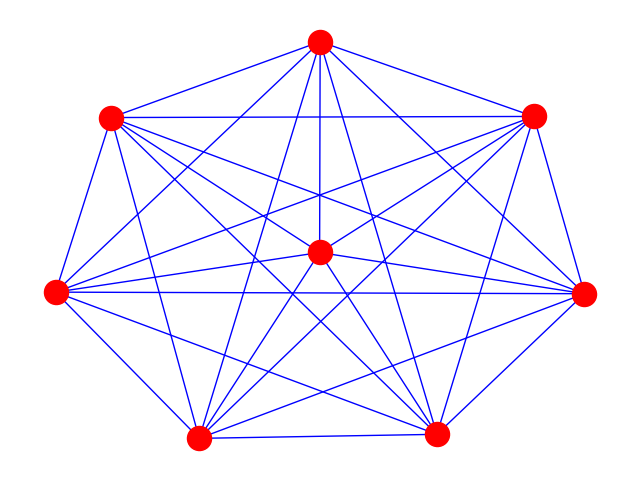
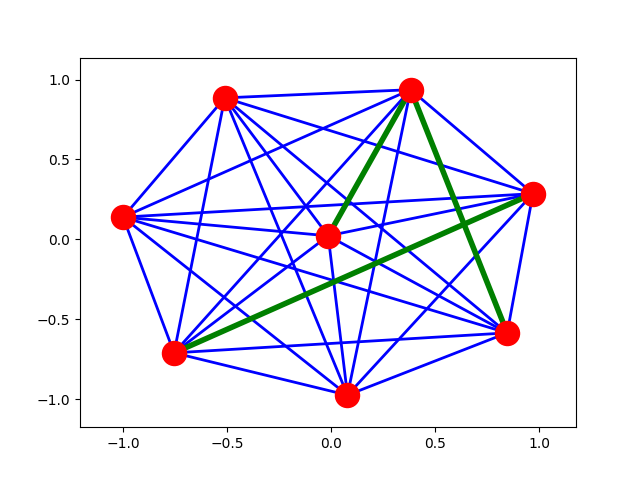
Add files via upload

diff --git a/graph.py b/graph.py
@@ -16,26 +16,29 @@ G=nx.Graph()
 G.add_nodes_from(['a','b','c','d','e','f','g','h'])
 
 
-G.add_edges_from([("a","b"),("a","c"),("a","d"),("a","f"),("a","g"),("a","h")],color='b')
+G.add_edges_from([('a','b'),('a','c'),('a','d'),('a','f'),('a','g'),('a','h')])
 
-G.add_edges_from([("b","c"),("b","d"),("b","e"),("b","f"),("b","g"),("b","h")],color='b')
+G.add_edges_from([('b','c'),('b','d'),('b','e'),('b','f'),('b','g'),('b','h')])
 
-G.add_edges_from([("c","d"),("c","e"),("c","g")],color='b')
+G.add_edges_from([('c','d'),('c','e'),('c','g')])
 
-G.add_edges_from([("d","e"),("d","f"),("d","g"),("d","h")],color='b')
+G.add_edges_from([('d','e'),('d','f'),('d','g'),('d','h')])
 
-G.add_edges_from([("e","f"),("e","g"),("e","h")],color='b')
+G.add_edges_from([('e','f'),('e','g'),('e','h')])
 
-G.add_edges_from([("f","g"),("f","h"),("g","h")],color='b')
+G.add_edges_from([('f','g'),('f','h'),('g','h')])
 
-G.add_edge("a","e",color='g')
+G.add_edge('a','e')
 
-G.add_edge("c","f",color='g')
+G.add_edge('c','f')
 
-G.add_edge("c","h",color='g')
+G.add_edge('c','h')
 
-nx.draw(G, edge_color='b')
+pos=nx.spring_layout(G)
 
+nx.draw_networkx_nodes(G, pos)
+nx.draw_networkx_edges(G,pos,edgelist=[('a','b'),('a','c'),('a','d'),('a','f'),('a','g'),('a','h'),('b','c'),('b','d'),('b','e'),('b','f'),('b','g'),('b','h'),('c','d'),('c','e'),('c','g'),('d','e'),('d','f'),('d','g'),('d','h'),('e','f'),('e','g'),('e','h'),('f','g'),('f','h'),('g','h')],edge_color='b',width=2)
+nx.draw_networkx_edges(G,pos,edgelist=[('a','e'),('c','f'),('c','h')],edge_color='g',width=4)
 
 plt.savefig("graph.png")
 
